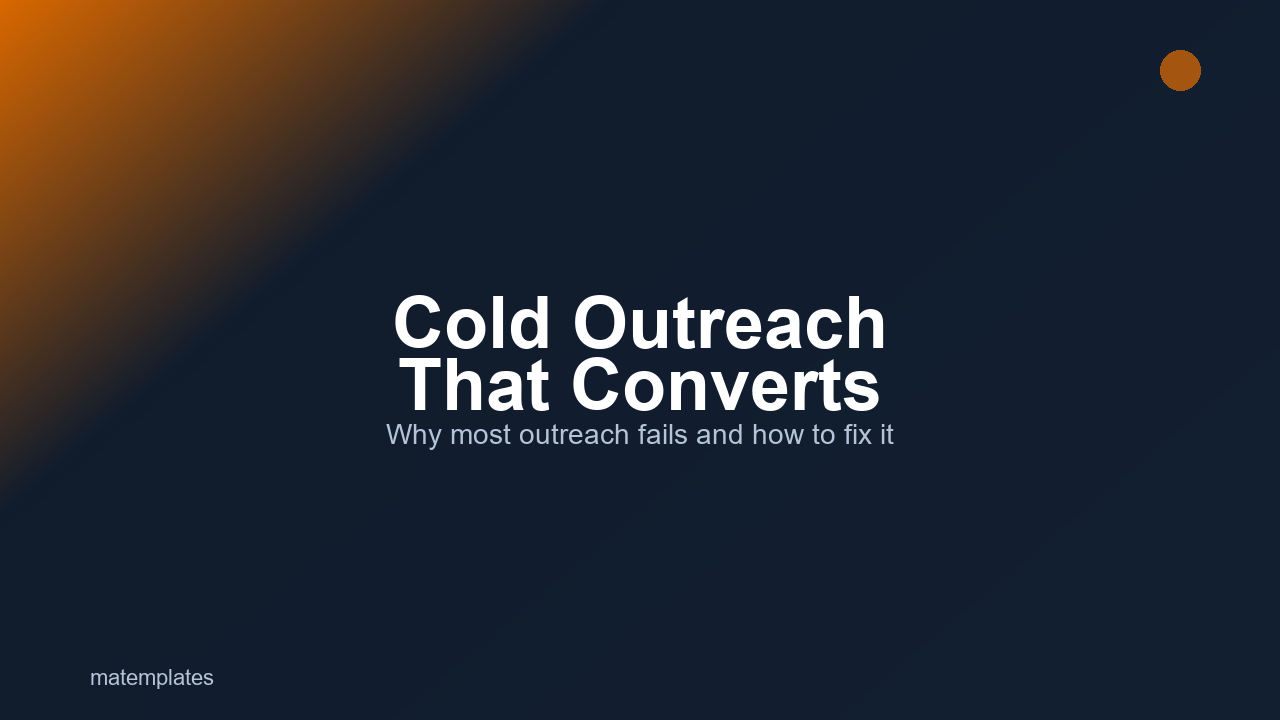
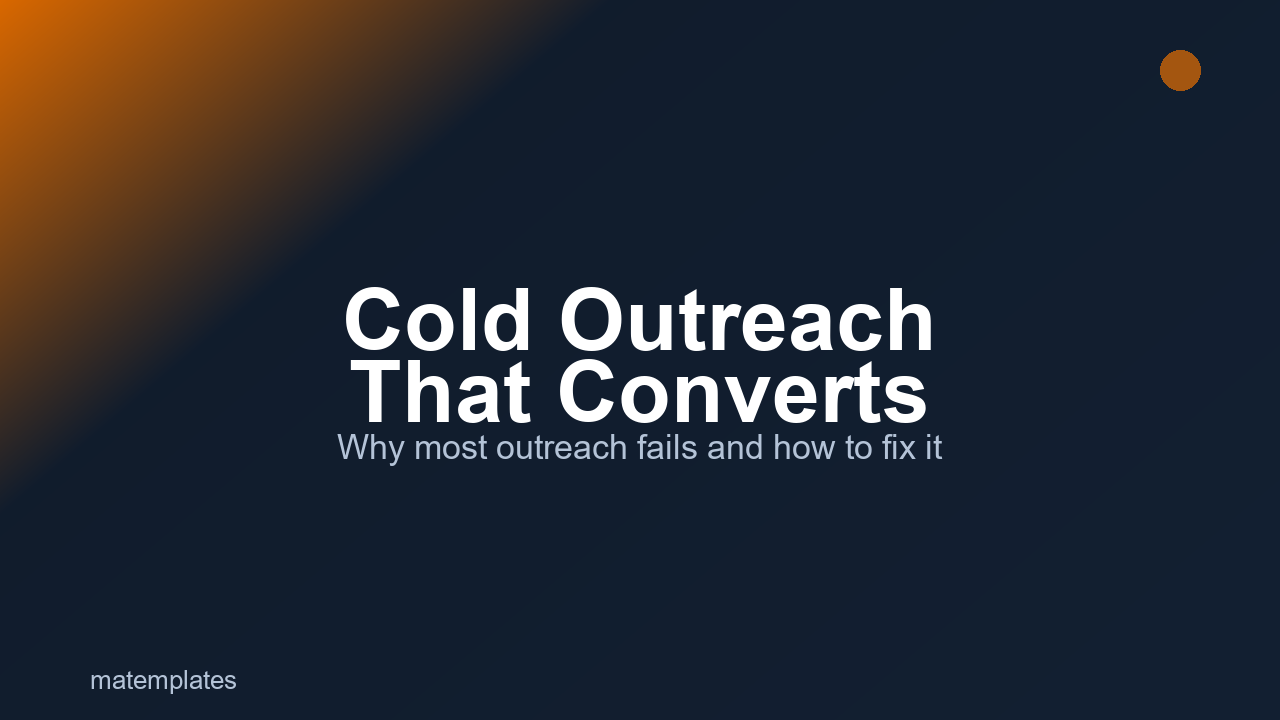
feat: bump cover fonts again (title 86, subtitle 34, brand 26)

Changed region(s): [[0.25, 0.3972, 0.75, 0.6417], [0.0625, 0.9167, 0.1875, 0.9778]]

diff --git a/generate_covers.py b/generate_covers.py
@@ -95,19 +95,19 @@ def generate_cover(filename, title, subtitle):
 
     # Load fonts
     try:
-        title_font = ImageFont.truetype(os.path.join(FONT_DIR, "arialbd.ttf"), 72)
+        title_font = ImageFont.truetype(os.path.join(FONT_DIR, "arialbd.ttf"), 86)
     except Exception:
-        title_font = ImageFont.truetype(os.path.join(FONT_DIR, "bahnschrift.ttf"), 72)
+        title_font = ImageFont.truetype(os.path.join(FONT_DIR, "bahnschrift.ttf"), 86)
 
     try:
-        sub_font = ImageFont.truetype(os.path.join(FONT_DIR, "arial.ttf"), 28)
+        sub_font = ImageFont.truetype(os.path.join(FONT_DIR, "arial.ttf"), 34)
     except Exception:
-        sub_font = ImageFont.truetype(os.path.join(FONT_DIR, "bahnschrift.ttf"), 28)
+        sub_font = ImageFont.truetype(os.path.join(FONT_DIR, "bahnschrift.ttf"), 34)
 
     try:
-        brand_font = ImageFont.truetype(os.path.join(FONT_DIR, "arial.ttf"), 22)
+        brand_font = ImageFont.truetype(os.path.join(FONT_DIR, "arial.ttf"), 26)
     except Exception:
-        brand_font = ImageFont.truetype(os.path.join(FONT_DIR, "bahnschrift.ttf"), 22)
+        brand_font = ImageFont.truetype(os.path.join(FONT_DIR, "bahnschrift.ttf"), 26)
 
     # Draw title centered vertically
     lines = title.split("\n")
